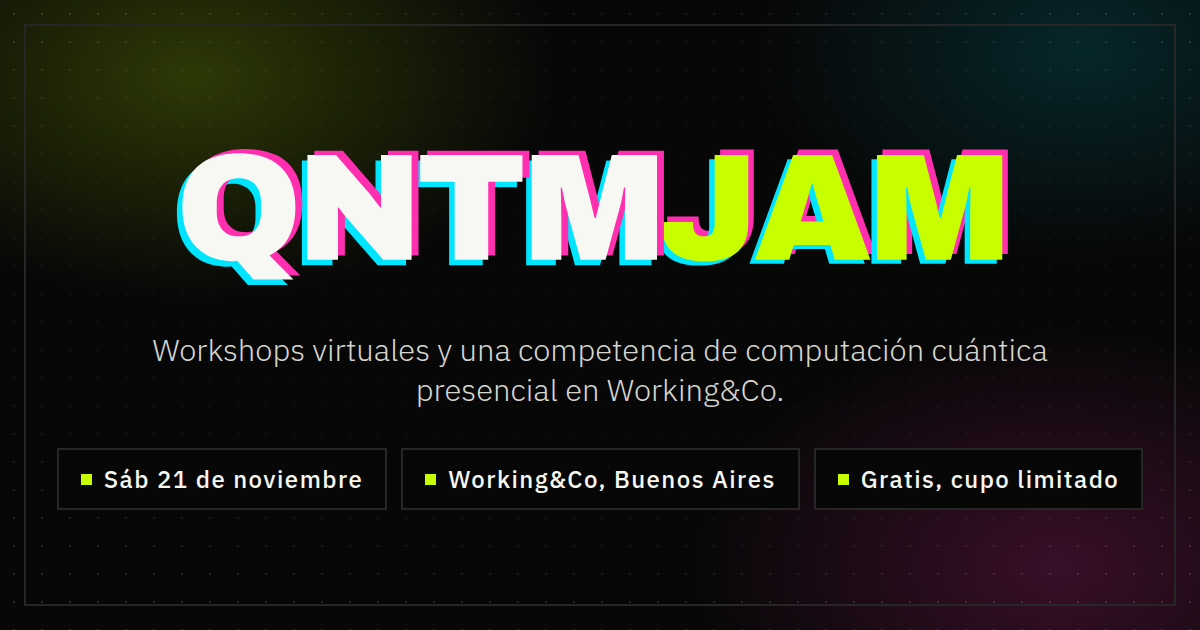
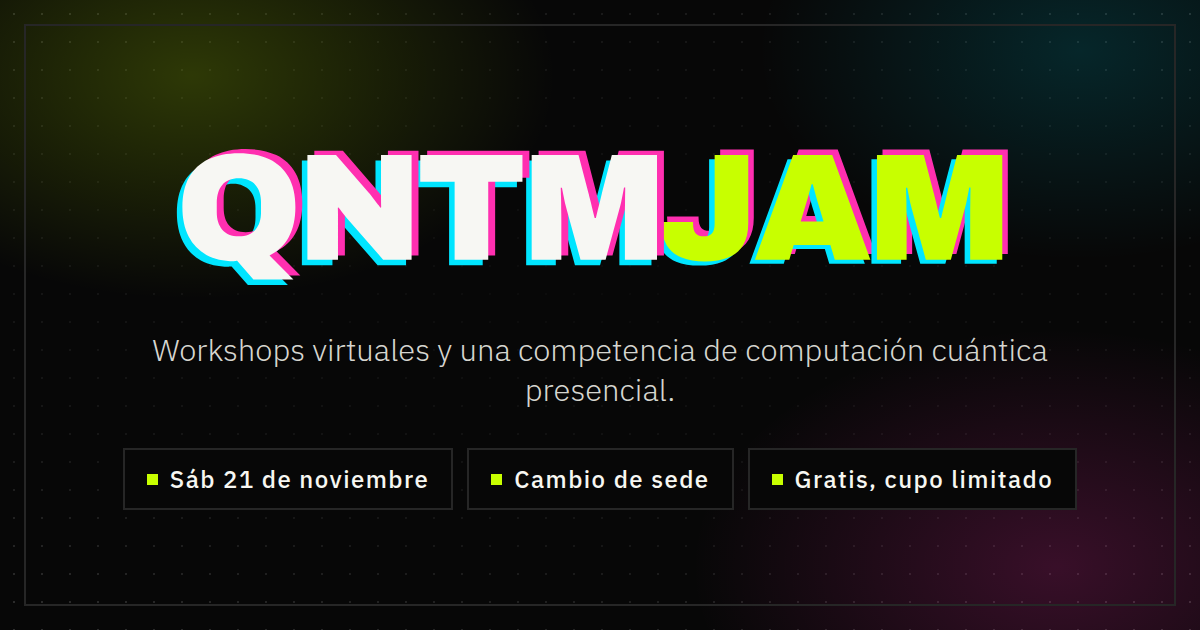
fix: ubicacion del evento generica

Changed region(s): [[0.0617, 0.6937, 0.9558, 0.8143], [0.3392, 0.6032, 0.6475, 0.6635], [0.0617, 0.6937, 0.0925, 0.7238]]

diff --git a/index.html b/index.html
@@ -13,12 +13,10 @@
       href="https://fonts.googleapis.com/css2?family=Archivo:ital,wdth,wght@0,62.5..125,100..900;1,62.5..125,100..900&family=IBM+Plex+Sans:wght@300;400;500;600&display=swap"
       rel="stylesheet"
     />
-    <title>
-      QuantumJam: competencia de computación cuántica en Working&amp;Co
-    </title>
+    <title>QuantumJam: competencia de computación cuántica</title>
     <meta
       name="description"
-      content="Workshops virtuales y una competencia presencial de computación cuántica en Working&amp;Co, parte del Qiskit Fall Fest 2026. Sábado 21 de noviembre. Gratis, cupo limitado."
+      content="Workshops virtuales y una competencia presencial de computación cuántica, parte del Qiskit Fall Fest 2026. Sábado 21 de noviembre. Gratis, cupo limitado."
     />
     <meta name="theme-color" content="#070707" />
     <link rel="canonical" href="https://quantumjam.com.ar/" />
@@ -28,11 +26,11 @@
     <meta property="og:url" content="https://quantumjam.com.ar/" />
     <meta
       property="og:title"
-      content="QuantumJam: competencia de computación cuántica en Working&amp;Co"
+      content="QuantumJam: competencia de computación cuántica"
     />
     <meta
       property="og:description"
-      content="Workshops virtuales y una competencia presencial de computación cuántica en Working&amp;Co, parte del Qiskit Fall Fest 2026. Sábado 21 de noviembre. Gratis, cupo limitado."
+      content="Workshops virtuales y una competencia presencial de computación cuántica, parte del Qiskit Fall Fest 2026. Sábado 21 de noviembre. Gratis, cupo limitado."
     />
     <meta property="og:locale" content="es_AR" />
     <meta property="og:locale:alternate" content="en_US" />
@@ -45,17 +43,17 @@
     <meta property="og:image:height" content="630" />
     <meta
       property="og:image:alt"
-      content="QuantumJam. Sábado 21 de noviembre en Working&amp;Co, Buenos Aires. Gratis, cupo limitado."
+      content="QuantumJam. Sábado 21 de noviembre. Cambio de sede; nueva ubicación a confirmar. Gratis, cupo limitado."
     />
 
     <meta name="twitter:card" content="summary_large_image" />
     <meta
       name="twitter:title"
-      content="QuantumJam: competencia de computación cuántica en Working&amp;Co"
+      content="QuantumJam: competencia de computación cuántica"
     />
     <meta
       name="twitter:description"
-      content="Workshops virtuales y una competencia presencial de computación cuántica en Working&amp;Co, parte del Qiskit Fall Fest 2026. Sábado 21 de noviembre. Gratis, cupo limitado."
+      content="Workshops virtuales y una competencia presencial de computación cuántica, parte del Qiskit Fall Fest 2026. Sábado 21 de noviembre. Gratis, cupo limitado."
     />
     <meta
       name="twitter:image"
@@ -63,7 +61,7 @@
     />
     <meta
       name="twitter:image:alt"
-      content="QuantumJam. Sábado 21 de noviembre en Working&amp;Co, Buenos Aires. Gratis, cupo limitado."
+      content="QuantumJam. Sábado 21 de noviembre. Cambio de sede; nueva ubicación a confirmar. Gratis, cupo limitado."
     />
 
     <script type="application/ld+json">
@@ -71,7 +69,7 @@
         "@context": "https://schema.org",
         "@type": "Event",
         "name": "QuantumJam",
-        "description": "Workshops virtuales y una competencia presencial de computación cuántica en Working&Co, parte del Qiskit Fall Fest 2026. Sábado 21 de noviembre. Gratis, cupo limitado.",
+        "description": "Workshops virtuales y una competencia presencial de computación cuántica, parte del Qiskit Fall Fest 2026. Sábado 21 de noviembre. Gratis, cupo limitado.",
         "startDate": "2026-11-21",
         "eventStatus": "https://schema.org/EventScheduled",
         "eventAttendanceMode": "https://schema.org/OfflineEventAttendanceMode",
@@ -81,10 +79,9 @@
         "url": "https://quantumjam.com.ar/",
         "location": {
           "@type": "Place",
-          "name": "Working&Co Niceto Vega",
+          "name": "Nueva sede a confirmar",
           "address": {
             "@type": "PostalAddress",
-            "streetAddress": "Niceto Vega 4601",
             "addressLocality": "Buenos Aires",
             "addressCountry": "AR"
           }

diff --git a/src/components/landing/Footer.tsx b/src/components/landing/Footer.tsx
@@ -182,12 +182,9 @@ export function Footer() {
             >
               {t('footer.links.email')}
             </a>
-            <a
-              href="https://maps.app.goo.gl/W33fFn4cnBmLFaNz7"
-              className="text-brand-text-dim hover:text-foreground text-[0.85rem] transition-colors"
-            >
+            <span className="text-brand-text-dim text-[0.85rem]">
               {t('footer.links.place')}
-            </a>
+            </span>
           </div>
         </div>
       </div>
